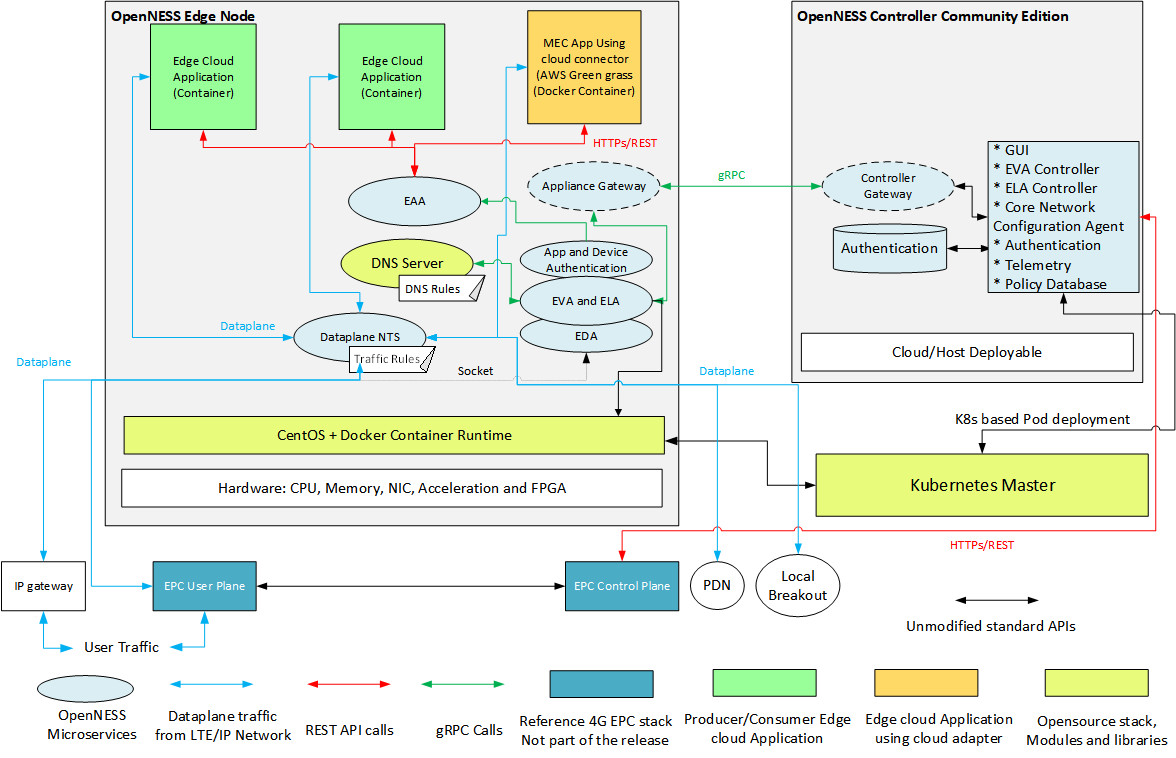
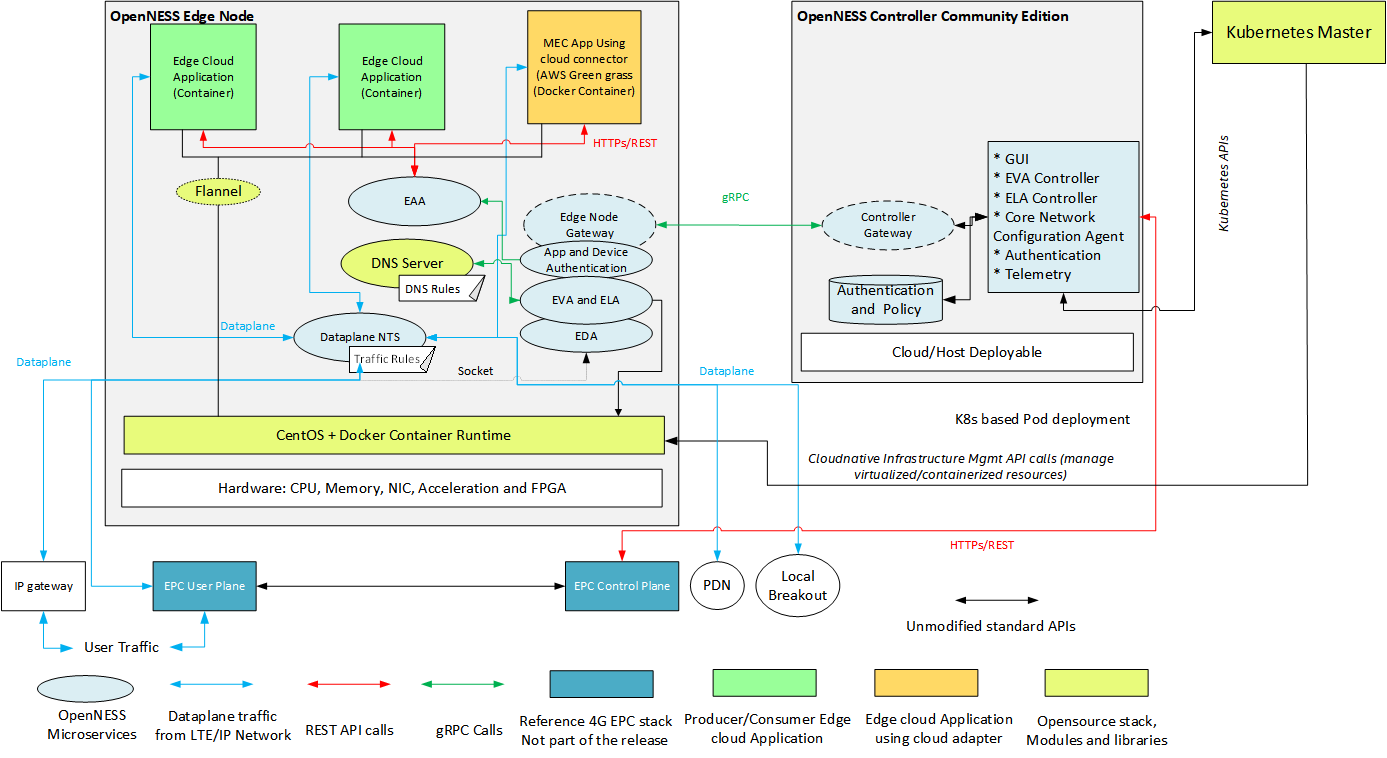
Arch update1909 (#24)
* updating arch doc for 19.09

* update to 19.09

* update

* hddlr

* Update architecture.md

* update from review

* Update architecture.md

Changed region(s): [[0.0, 0.0, 1.0, 0.8496], [0.0, 0.7282, 1.0, 1.0], [0.0306, 0.6979, 0.0612, 0.7282]]

diff --git a/doc/architecture.md b/doc/architecture.md
@@ -20,6 +20,7 @@ Copyright © 2019 Intel Corporation and Smart-Edge.com, Inc.
     * [Producer Application](#producer-application)
     * [Consumer Application](#consumer-application)
     * [Example of Producer and Consumer Applications](#example-of-producer-consumer-app)
+    * [Dynamic CPU and VPU usage](#dynamic-cpu-and-vpu-usage)
     * [Cloud Adapter Edge compute Application](#cloud-adapter-edge-compute-application)
 * [OpenNESS Microservices and APIs](#openness-microservices-and-apis)
     * [Edge Application APIs](#edge-application-apis)
@@ -74,7 +75,13 @@ OpenNESS reference edge stack combines the NFV infrastructure optimizations for 
 The architecture of the OpenNESS Edge compute reference stack is described in greater detail in following subsections of this document.
 
 ### OpenNESS Controller Community Edition
-OpenNESS Controller Community Edition consists of microservices that enable Edge compute Cloud orchestration and application lifecycle management. These microservices are Web-UI and Controller API back-end. For the purposes of ease of bring up Web-UI and Controller API back-end are running in one container. 
+OpenNESS Controller Community Edition consist a set of microservices that enable an existing Edge compute Cloud orchestration and application lifecycle management. These microservices are Web-UI, Controller API back-end and Database. 
+
+```
+edgecontroller_ui_1    - UI
+edgecontroller_cce_1   - backend
+edgecontroller_mysql_1 - database
+```
 
 Details of Edge Controller Microservices functionality: 
  
@@ -96,6 +103,8 @@ Details of Edge Controller Microservices functionality:
 The Controller microservices make extensive use of the Go programming language and its runtime libraries.
 
 The OpenNESS Controller addresses the essential functionalities of a multi-access edge orchestrator and MEC Platform manger as defined in the ETSI MEC Multi-access Edge Computing (MEC): Framework and Reference Architecture. In the rest of this document, “OpenNESS Controller Community Edition” will be referred to as “Controller” or “OpenNESS Controller”.
+
+When OpenNESS Controller interfaces an existing orchastrator like Kubernetes it does not duplicate the implementation of lifecycle management and traffic policy APIs of the Containers but it uses the existing Kubernetes APIs to execute lifecycle management and traffic policy tasks. 
 
 #### Edge Application Onboarding
 OpenNESS user need to use the Controller to onboard and application to the OpenNESS Edge Node. OpenNESS support applications that can run in a docker container or Virtual machine. Docker image tar.gz and VM image qcow2 are supported. The image source link needs to be over HTTPs. The image repository can be an external image server or one that can be deployed on the controller. The figure below shows the steps involved in application onboarding.  
@@ -121,6 +130,13 @@ OpenNESS edge node hosts a set of microservices to enable Edge compute deploymen
 
 OpenNESS Edge Node microservices implement functionality to enable execution of edge compute applications natively on the edge node or forward the user traffic to applications running on platforms connected to the Edge Node on a Local Breakout. 
 
+For the ease of deployment the Edge node microservices are deployed in four containers 
+```
+edgenode_appliance_1 - ELA, EVA, EDA and EAA
+nts                  - Dataplane NTS (not present when OVS is used as dataplane)
+mec-app-edgednssvr   - Edge DNS Server
+edgenode_syslog-ng_1 - Syslog
+```
 Details of Edge Node Microservices functionality: 
 
 - **Edge Application Enrolling**: During the initial boot, connect to the designated OpenNESS Controller and request to enroll. This functionality is implemented in the ELA (Edge Lifecycle Agent) microservice. As part of enrolling, the Edge node is provided a TLS based certificate, which is used for further API communication. Figure below depicts this behavior. ELA is implemented using Go lang.
@@ -133,17 +149,26 @@ Details of Edge Node Microservices functionality:
 - **DNS service**: Support DNS resolution and forwarding services for the application deployed on the edge compute. DNS server is implemented based on Go DNS library. 
 - **Edge Node Virtualization infrastructure**: Receive commands from the controller/NFV infrastructure mangers to start and stop Applications. This functionality is implemented in the EVA (Edge virtualization Agent) microservice and is implemented in Go lang. 
 - **Edge application traffic policy**: Interface to set traffic policy for application deployed on the edge node. This functionality is implemented in the EDA (Edge Dataplane Agent) microservice and is implemented in Go lang. 
-- **Dataplane Service**: Steers traffic towards applications running on the Edge Node or the Local Break-out Port, utilizing the Data Plane NTS (Network Transport Service), which runs on every Edge Node. It is implemented in C lang using DPDK for high performance IO.
-  - Provide Reference ACL based Application specific packet tuple filtering 
-  - Provide reference GTPU base packet learning for S1 deployment 
-  - Provide reference Simultaneous IP and S1 deployment 
-  - Provide Reference API for REST/grpc to C API 
-  - Future enhancement of UE based traffic steering for authentication (not there now)
-  - Reference implementation which does not depend on EPC implementation 
-  - Reference Packet forwarding decision independent of IO
-  - Implement KNI based interface to Edge applications running as Containers/POD 
-  - Implement DPDK vHost user based interface to Edge applications running as Virtual Machine 
-  - Implement Scatter and Gather in upstream and downstream 
+- **Dataplane Service**: Steers traffic towards applications running on the Edge Node or the Local Break-out Port. There are 2 options for dataplane when using Kubenetests. 
+  - Option 1: Using OVN/OVS as Dataplane - recommended dataplane when incoming and outgoing flows are based on pure IP. 
+    - Implemented using [kube-ovn](https://github.com/alauda/kube-ovn)
+    - Provides IP based Five tuple based flow filtering and forwarding
+    - Same Interface can be used for Inter-App, management, Internet and Dataplane interface
+  - Option 2: Utilizing the Data Plane NTS (Network Transport Service), which runs on every Edge Node. It is implemented in C lang using DPDK for high performance IO. This is the recommended dataplane when incoming and outgoing flows is mix of pure IP + S1u (GTPu). 
+    - Provide Reference ACL based Application specific packet tuple filtering 
+    - Provide reference GTPU base packet learning for S1 deployment 
+    - Provide reference Simultaneous IP and S1 deployment 
+    - Provide Reference API for REST/grpc to C API 
+    - Future enhancement of UE based traffic steering for authentication (not there now)
+    - Reference implementation which does not depend on EPC implementation 
+    - Reference Packet forwarding decision independent of IO
+    - Implement KNI based interface to Edge applications running as Containers/POD 
+    - Implement DPDK vHost user based interface to Edge applications running as Virtual Machine 
+    - Implement Scatter and Gather in upstream and downstream 
+    - Dedicated interface created for datapalne based on vhost-user for VM, dpdk-kni for Containers
+    - Container or VM default Interface can be used for Inter-App, management and Internet access from application 
+    - Dedicated OVS-DPDK interface for inter-apps communication can be created in case of On-Premise deployment. 
+
 - **Application Authentication**: Ability to authenticate Edge compute application deployed from Controller so that application can avail/call Edge Application APIs. Only application that intends to call the Edge Application APIs need to be authenticated. TLS certificate based Authentication is implemented. 
 
 ![OpenNESS Application Authentication](arch-images/openness_appauth.png)
@@ -212,18 +237,36 @@ In this environment, it may not be necessary to add another level of infrastruct
  
 The OpenNESS Controller may be hosted locally, or be hosted in an enterprise or public cloud to manage edge nodes in multiple physical locations.
 
+ In some cases On-Premise Edge will not have a dedicated infrastructure manager (Kubernetes, Openstack, docker swarm etc.) in such cases OpenNESS Controller Community Edition provides some basic lifecycle management of Application and services using ELA and EVA microservices (for docker and libvirt) as reference. 
+ 
+ > Note: Support for complex and complete lifecycle management of Applications/Services and VNFs/CNFs in the absence of a dedicated orchastrator is out of the scope of OpenNESS Controller Community Edition. 
+  
 ![On-Premise Edge compute](arch-images/openness_onprem.png)
 
-_Figure - On-Premise Edge Deployment Scenario_
+_Figure - On-Premise Edge Deployment Scenario without external Orchastrator_
 
 ### Network Edge Deployment Scenario
-The network edge deployment scenario is depicted in Figure below. In this scenario, edge nodes are located  in facilities owned by a network operator (e.g., a central office), and to be part of a data network including access network, core network, and edge computing infrastructure owned by a network operator. For economy of scale, this network is likely to be multi-tenant, and to be of very large scale (a national network operator may have thousands, or tens of thousands, of edge nodes). This network is likely to employ managed virtualization (e.g., OpenStack, Kubernetes) and be integrated with an operations and support system through which not only the edge computing infrastructure, but the network infrastructure, is managed.
+The network edge deployment scenario is depicted in Figure below. In this scenario, edge nodes are located  in facilities owned by a network operator (e.g., a central office, Regional Data Center), and to be part of a data network including access network (4G, 5GNR), core network (EPC, NGC), and edge computing infrastructure owned by a network operator. For economy of scale, this network is likely to be multi-tenant, and to be of very large scale (a national network operator may have thousands, or tens of thousands, of edge nodes). This network is likely to employ managed virtualization (e.g., OpenStack, Kubernetes) and be integrated with an operations and support system through which not only the edge computing infrastructure, but the network infrastructure, is managed.
  
 In this environment, OpenNESS integrates with the virtualization infrastructure in use in the operator network; the OpenNESS Controller manages the edge nodes in its domain via the virtualization infrastructure.
 
+> Note: When OpenNESS Controller interfaces an existing orchastrator like Kubernetes it does not duplicate the implementation of lifecycle management and traffic policy APIs of the Containers but it uses the existing Kubernetes APIs to execute lifecycle management and traffic policy tasks. 
+
+The diagram below shows a deployment Option utilizing the Data Plane NTS (Network Transport Service), which runs on every Edge Node. It is implemented in C lang using DPDK for high performance IO. This is the recommended dataplane when incoming and outgoing flows is mix of pure IP + S1u (GTPu). 
+
 ![Network Edge compute](arch-images/openness_networkedge.png)
 
-_Figure 7 - Network Edge Deployment Scenario_
+_Figure - Network Edge Deployment Scenario_
+
+OpenNESS also supports using OVN/OVS as Dataplane. This is the recommended dataplane when incoming and outgoing flows are based on pure IP. This is implemented using [kube-ovn](https://github.com/alauda/kube-ovn)
+
+In this mode OVN/OVS can support: 
+ - IP based Five tuple based flow filtering and forwarding
+ - Same Interface used for Inter-App, management, Internet and Dataplane interface
+
+![Network Edge compute](arch-images/openness_networkedge_ovs.png)
+
+_Figure - Network Edge Deployment Scenario with OVS as dataplane_
 
 ## OpenNESS Edge Node Applications
 OpenNESS Applications can onboarded and provisioned on the edge node only through OpenNESS Controller. The first step in Onboarding involves uploading the application image to the controller through the web interface. Both VM and Container images are supported. 
@@ -261,12 +304,19 @@ The OpenNESS release includes reference producer and consumer applications.
 
 _Figure 8 - Example of Producer and Consumer Applications_
 
-The consumer application is based on OpenVINO [OpenVINO] (https://software.intel.com/en-us/openvino-toolkit)
+The consumer application is based on [OpenVINO](https://software.intel.com/en-us/openvino-toolkit)
 
 - OpenVINO consumer app executes inference on input video stream
 - OpenVINO producer app generates notifications to the consumer app for changing the inference model
 - Video input stream is captured from a webcam installed on an Embedded Linux client device
 - The annotated video is streamed out of the OpenNESS edge node back to the client device for further data analysis
+
+### Dynamic CPU and VPU usage 
+OpenNESS demonstrates one more great applicability Edge compute and efficient resource utilization in the Edge cloud. OpenVINO sample application supports dynamic use of VPU or CPU for Object detection depending on the input from Producer application. The producer application can behave as a load balancer. It also demonstrates the Application portability with OpenVINO so that it can run on CPU or VPU. 
+
+![OpenNESS Reference Application](arch-images/openness_hddlr.png)
+
+More details about HDDL-R support in OpenNESS for Applications using OpenVINO SDK can be found here [Using Intel® Movidius™ Myriad™ X High Density Deep Learning (HDDL) solution in OpenNESS](https://github.com/open-ness/specs/blob/master/doc/openness_hddl.md). 
 
 ### Cloud Adapter Edge compute Application
 All the major Cloud Service providers are implementing frameworks to deploy edge applications that link back to their cloud via connectors. For example, Amazon Greengrass enables lambda functions to be deployed on the edge and connecting to the AWS cloud using the GreenGrass service. While it was originally intended to host this type of edge software on IoT gateways, the same framework can be utilized by Service Providers and Enterprises, to implement a multi-cloud strategy for their Edge Nodes.  
